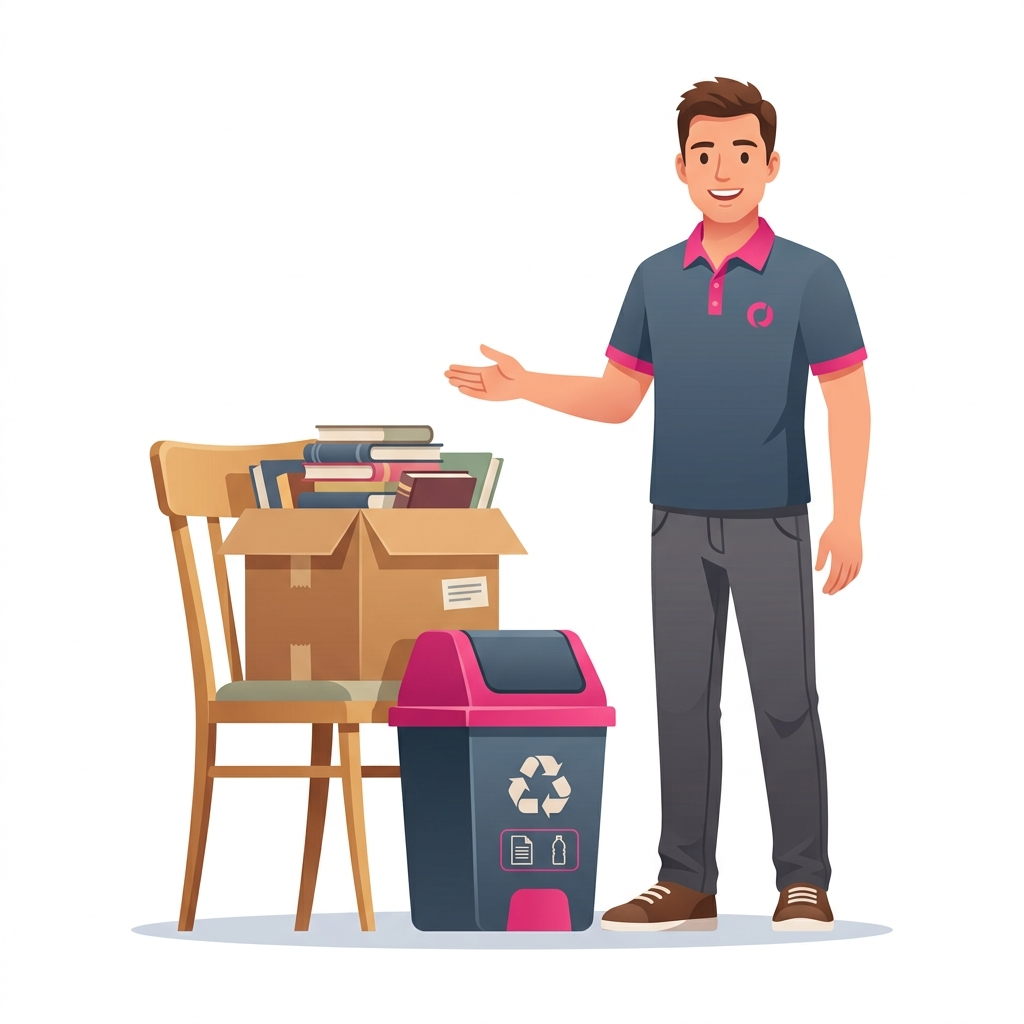
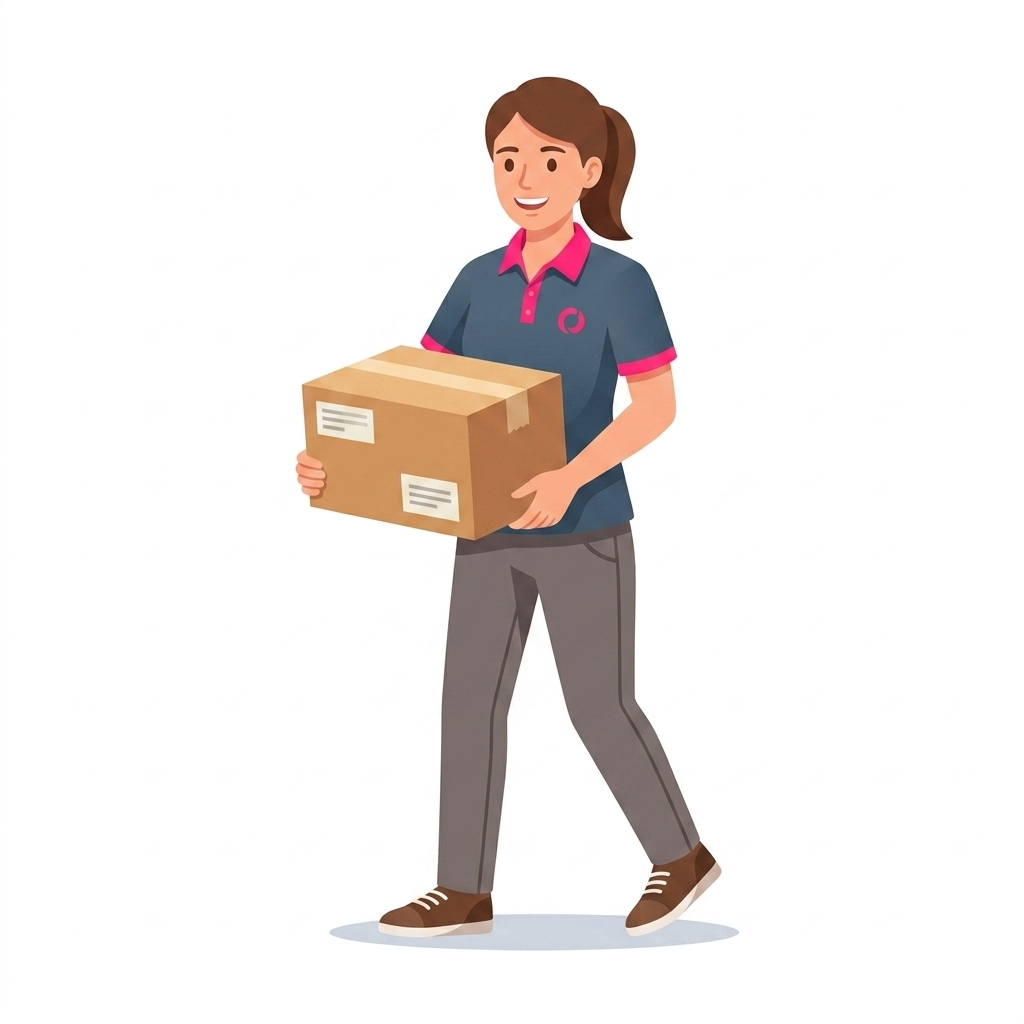
Update hero image and Hero component

diff --git a/components/Hero.tsx b/components/Hero.tsx
@@ -11,44 +11,48 @@ export const Hero: React.FC<HeroProps> = ({ onGetQuote, onBookOnline }) => {
     <section className="relative bg-white overflow-hidden">
 
       {/* Mobile layout */}
-      <div className="lg:hidden flex flex-col bg-white pt-28">
-        <div className="px-6 py-6">
-          <div className="mb-3 animate-fade-in">
-            <span className="text-[10px] font-black uppercase tracking-[0.3em] text-secondary-400">Nationwide Service</span>
-          </div>
-          <h1 className="text-4xl sm:text-5xl font-black text-secondary tracking-tight mb-4 leading-[1.05] animate-slide-up" style={{animationDelay: '0.1s'}}>
-            Junk gone.
-            <br/>
-            Today.
-          </h1>
-          <p className="text-sm sm:text-base text-secondary-500 max-w-lg leading-relaxed mb-6 animate-slide-up" style={{animationDelay: '0.2s'}}>
-            Professional junk removal services nationwide. Get instant quotes and same-day service from trusted local providers.
-          </p>
-          <div className="flex flex-row gap-3 animate-slide-up" style={{animationDelay: '0.3s'}}>
-            <button
-              onClick={onGetQuote}
-              className="flex-1 px-4 py-3.5 text-xs font-black uppercase tracking-wider bg-secondary text-white hover:bg-secondary-600 transition-all duration-300 rounded-xl shadow-md"
-            >
-              View Pricing
-            </button>
-            <button
-              onClick={onBookOnline}
-              className="flex-1 px-4 py-3.5 text-xs font-black uppercase tracking-wider bg-brand text-white hover:bg-brand-600 transition-all duration-300 rounded-xl shadow-md"
-            >
-              Book Online
-            </button>
+      <div className="lg:hidden flex flex-col">
+        {/* Content area: background image + dark overlay, ends right at buttons */}
+        <div
+          className="relative pt-32 pb-10 px-4"
+          style={{
+            backgroundImage: 'url(/hero-truck-loading.png)',
+            backgroundSize: 'cover',
+            backgroundPosition: 'center',
+          } as React.CSSProperties}
+        >
+          {/* Dark overlay */}
+          <div className="absolute inset-0 bg-black/80" />
+
+          <div className="relative z-10">
+            <div className="mb-3 animate-fade-in">
+              <span className="text-[10px] font-black uppercase tracking-[0.3em] text-white/90">Nationwide Service</span>
+            </div>
+            <h1 className="text-4xl sm:text-5xl font-black text-white tracking-tight mb-4 leading-[1.05] animate-slide-up" style={{animationDelay: '0.1s'}}>
+              Junk gone.
+              <br/>
+              Today.
+            </h1>
+            <p className="text-sm sm:text-base text-white/90 max-w-lg leading-relaxed animate-slide-up" style={{animationDelay: '0.2s'}}>
+              Professional junk removal services nationwide. Get instant quotes and same-day service from trusted local providers.
+            </p>
           </div>
         </div>
 
-        {/* Mascot Graphic container */}
-        <div className="px-6 pb-10 flex justify-center animate-fade-in" style={{animationDelay: '0.4s'}}>
-          <div className="w-full max-w-[280px] aspect-square flex items-center justify-center">
-            <img
-              src="/hero-provider.png"
-              alt="Matched Service Provider Partner"
-              className="w-full h-full object-contain p-0"
-            />
-          </div>
+        {/* Buttons sit flush below the image background */}
+        <div className="flex flex-row animate-slide-up" style={{animationDelay: '0.3s'}}>
+          <button
+            onClick={onGetQuote}
+            className="flex-1 px-4 py-4 text-sm font-bold uppercase tracking-wider bg-secondary text-white hover:bg-secondary-600 transition-all duration-300 rounded-none shadow-md hover:shadow-xl"
+          >
+            View Pricing
+          </button>
+          <button
+            onClick={onBookOnline}
+            className="flex-1 px-4 py-4 text-sm font-bold uppercase tracking-wider bg-brand text-white hover:bg-brand-600 transition-all duration-300 rounded-none shadow-md hover:shadow-xl"
+          >
+            Book Online
+          </button>
         </div>
       </div>
 
@@ -70,16 +74,16 @@ export const Hero: React.FC<HeroProps> = ({ onGetQuote, onBookOnline }) => {
               <p className="text-lg text-secondary mb-8 max-w-lg leading-relaxed animate-slide-up" style={{animationDelay: '0.2s'}}>
                 Professional junk removal services nationwide. Get instant quotes and same-day service from trusted local providers.
               </p>
-              <div className="flex flex-row gap-3 animate-slide-up" style={{animationDelay: '0.3s'}}>
+              <div className="flex flex-row gap-0 animate-slide-up" style={{animationDelay: '0.3s'}}>
                 <button
                   onClick={onGetQuote}
-                  className="px-8 py-4 text-xs font-black uppercase tracking-wider bg-secondary text-white hover:bg-secondary-600 transition-all duration-300 rounded-xl shadow-md hover:shadow-xl"
+                  className="px-8 py-4 text-sm font-bold uppercase tracking-wider bg-secondary text-white hover:bg-secondary-600 transition-all duration-300 rounded-none shadow-md hover:shadow-xl"
                 >
                   View Pricing
                 </button>
                 <button
                   onClick={onBookOnline}
-                  className="px-8 py-4 text-xs font-black uppercase tracking-wider bg-brand text-white hover:bg-brand-600 transition-all duration-300 rounded-xl shadow-md hover:shadow-xl"
+                  className="px-8 py-4 text-sm font-bold uppercase tracking-wider bg-brand text-white hover:bg-brand-600 transition-all duration-300 rounded-none shadow-md hover:shadow-xl"
                 >
                   Book Online
                 </button>
@@ -90,8 +94,8 @@ export const Hero: React.FC<HeroProps> = ({ onGetQuote, onBookOnline }) => {
             <div className="col-span-5 animate-fade-in" style={{animationDelay: '0.4s'}}>
               <div className="relative aspect-square flex items-center justify-center group">
                 <img
-                  src="/hero-provider.png"
-                  alt="Matched Service Provider Partner"
+                  src="/hero-truck-loading.png"
+                  alt="Movers loading furniture into a box truck"
                   className="w-full h-full object-contain p-0 group-hover:scale-105 transition-transform duration-700"
                 />
               </div>